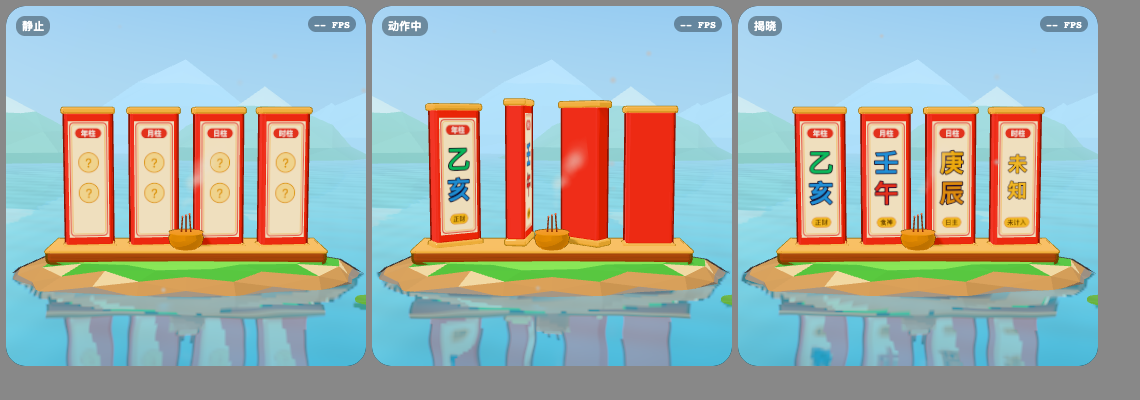
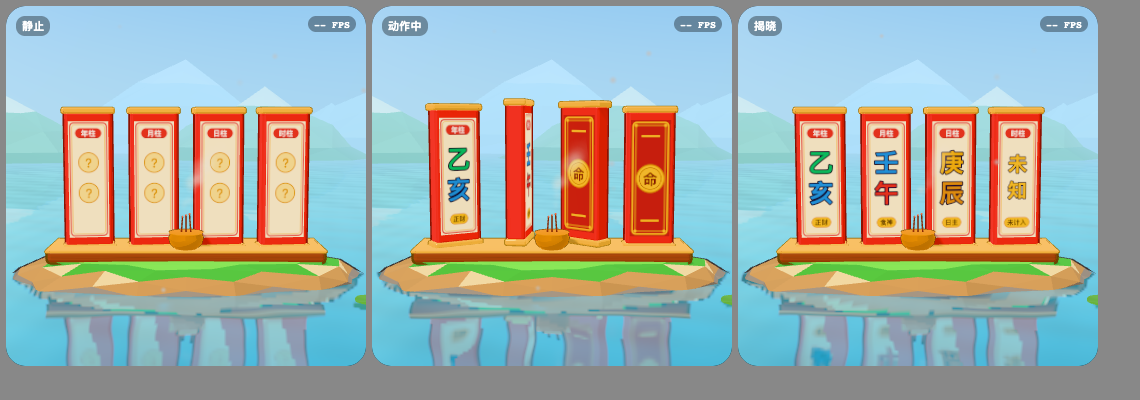
命牌加卡背，灵摆相机给过冲留余量
- 八字命牌背面从素红空板改为卡牌背面：深朱底、金色双线框、中间金色圆章「命」字
- 灵摆过冲拉长时曲臂顶出画面上沿，相机拉远并抬高目标
- 新增 tests/stage-frame.test.mjs 检查过冲构图与卡背
- 动作弹性复查截图与 iPhone 截图，更新 TODO、run-log、visual-direction

Claude-Session: https://claude.ai/code/session_01UrVAbtyfYEWTqFmHaQFqJW

Changed region(s): [[0.5526, 0.3, 0.614, 0.6], [0.4912, 0.27, 0.5219, 0.6]]

diff --git a/src/ui/stage/scenes/pillars.js b/src/ui/stage/scenes/pillars.js
@@ -46,6 +46,27 @@ export function drawTablet(c, w, h, entry, i, unknownHour) {
   }
 }
 
+// 第 23 轮：命牌背面。排盘开始时四块牌先背对镜头再依次翻过来，原来背面是一整块素红，翻转中像四块空板。
+// 改为卡牌背面：深朱底、金色双线框、四角金点、中间金色圆章上一个朱红「命」字，像手游卡牌的卡背。
+export const TABLET_BACK = { base: '#c8302a', gold: '#ffc93c', goldDark: '#d8901e', ink: '#8a1c16' };
+export function drawTabletBack(c, w, h) {
+  const B = TABLET_BACK;
+  c.clearRect(0, 0, w, h);
+  c.fillStyle = B.base; c.fillRect(0, 0, w, h);
+  c.lineJoin = 'round';
+  roundRect(c, 18, 18, w - 36, h - 36, 26); c.lineWidth = 10; c.strokeStyle = B.gold; c.stroke();
+  roundRect(c, 40, 40, w - 80, h - 80, 16); c.lineWidth = 4; c.strokeStyle = B.gold; c.stroke();
+  for (const [x, y] of [[40, 40], [w - 40, 40], [40, h - 40], [w - 40, h - 40]]) { c.beginPath(); c.arc(x, y, 12, 0, Math.PI * 2); c.fillStyle = B.gold; c.fill(); }
+  // 上下各一道金色云纹短线，和正面的标签条、十神胶囊位置对应
+  for (const y of [120, h - 120]) { roundRect(c, w / 2 - 70, y - 7, 140, 14, 7); c.fillStyle = B.gold; c.fill(); }
+  const cy = h / 2;
+  c.beginPath(); c.arc(w / 2, cy, 104, 0, Math.PI * 2); c.fillStyle = B.gold; c.fill();
+  c.lineWidth = 8; c.strokeStyle = B.goldDark; c.stroke();
+  c.beginPath(); c.arc(w / 2, cy, 82, 0, Math.PI * 2); c.lineWidth = 4; c.strokeStyle = B.ink; c.stroke();
+  c.textAlign = 'center'; c.textBaseline = 'middle'; c.font = `900 112px ${FONT}`;
+  c.fillStyle = B.ink; c.fillText('命', w / 2, cy + 6);
+}
+
 export default {
   camera: { position: [0, .55, 7.5], target: [0, -.2, 0], fov: 30 },
   fog: [9, 26],
@@ -60,12 +81,14 @@ export default {
     const tabletGeo = new RoundedBoxGeometry(.52, 1.5, .2, 4, .04);
     const capGeo = new RoundedBoxGeometry(.58, .07, .24, 3, .025);
     const tabMat = MAT.lacquer('#e8463c'); // 朱漆牌身，牌面四周露出一圈红边
+    const backMat = new THREE.MeshStandardMaterial({ map: canvasTexture(TABLET_TEX[0], TABLET_TEX[1], (c, w, h) => drawTabletBack(c, w, h)), roughness: .8 }); // 四块共用
     const tablets = [0, 1, 2, 3].map((i) => {
       const g = new THREE.Group(); world.add(g);
       g.add(new THREE.Mesh(tabletGeo, tabMat));
       const top = new THREE.Mesh(capGeo, gold); top.position.y = .76; const bot = new THREE.Mesh(capGeo, gold); bot.position.y = -.76; g.add(top, bot);
       const tex = canvasTexture(TABLET_TEX[0], TABLET_TEX[1], (c, w, h) => drawTablet(c, w, h, null, i, false));
       const face = new THREE.Mesh(new THREE.PlaneGeometry(.44, 1.29), new THREE.MeshStandardMaterial({ map: tex, roughness: .8 })); face.position.z = .102; g.add(face);
+      const back = new THREE.Mesh(new THREE.PlaneGeometry(.44, 1.29), backMat); back.position.z = -.102; back.rotation.y = Math.PI; g.add(back);
       api.shadows(g, true, true);
       return { g, tex };
     });

diff --git a/src/ui/stage/scenes/pendulum.js b/src/ui/stage/scenes/pendulum.js
@@ -25,7 +25,9 @@ function drawBoard(c, w, highlight = null, glowOnly = false) {
 }
 
 export default {
-  camera: { position: [0, 2.3, 6.1], target: [0, -.35, 0], fov: 32 },
+  // 第 23 轮：原来 [0, 2.3, 6.1] 看向 -.35，静止时曲臂顶端离画面上沿只剩约 1.4°，过冲拉长时顶出画面。
+  // 拉远一点并抬高目标，过冲时仍留约 2° 的余量，石台前沿离下沿约 3°（tests/stage-frame.test.mjs）
+  camera: { position: [0, 2.3, 6.4], target: [0, -.15, 0], fov: 32 },
   fog: [9, 26],
   pivot: -.94, // 动作弹性的不动点：石台顶面
   bounce: .6, // 支架高，满幅拉长会顶出画面

diff --git a/docs/claude-plan/visual-direction.md b/docs/claude-plan/visual-direction.md
@@ -23,14 +23,14 @@
 | 阴影 | 保留主光投影，阴影颜色偏冷紫（地光 #6a7bd6），PCF 软阴影半径 3，不再整体压暗 |
 | 石台（水中小岛） | 第 17 轮起用 `toonRock`：二十面体细分 3 级、起伏 0.2、平面着色出切面，每个面一种颜色。顶面亮草地 #86dc5c、外圈草边 #5cbf4c，侧面上段沙岩 #f2dcab、下段 #cf9f66，水线以下向 #6f9fb8 混 45% 再压暗 15%，切面明度随机 ±4.5%。不要写实石纹和青苔噪点 |
 | 远山 | 第 18 轮起用 `toonMountain`：8 边圆锥 4 段、噪声歪斜，每座主峰加一个 0.62 倍肩峰，平面着色。两排共 6 座：后排天蓝 #9fd2e8、山脚 #86bfdc、峰帽 #f4fbff，前排薄荷 #86c9b4、山脚 #6bb39f、峰帽 #eefaf4，峰帽在高度 0.7 以上，山脚在 0.22 以下，切面明度 ±5%。深色皮肤乘夜色 #6a64b4。雾负责远近层次，不另加描边 |
-| 命牌（八字） | 第 21 轮：牌身朱漆 #e8463c、上下金帽，牌面贴图 300×880 与 0.44 × 1.29 牌面同比例。牌面奶油底 #fff6df，内框朱红 10px 粗边加一道金线，顶部红色胶囊标签白字，干支 186px 黑重字带深墨 #2b2240 描边（字号 10%），五行色 木 #22c46c、火 #e8463c、土 #e0942a、金 #f2b318、水 #3a9cf0，十神写在金色胶囊里。未排盘时是两枚金色「?」圆章，不再是一个小点 |
+| 命牌（八字） | 第 21 轮：牌身朱漆 #e8463c、上下金帽，牌面贴图 300×880 与 0.44 × 1.29 牌面同比例。牌面奶油底 #fff6df，内框朱红 10px 粗边加一道金线，顶部红色胶囊标签白字，干支 186px 黑重字带深墨 #2b2240 描边（字号 10%），五行色 木 #22c46c、火 #e8463c、土 #e0942a、金 #f2b318、水 #3a9cf0，十神写在金色胶囊里。未排盘时是两枚金色「?」圆章，不再是一个小点。第 23 轮加卡背：深朱底 #c8302a、金色 #ffc93c 双线框与四角金点、中间金色圆章上朱红 #8a1c16「命」字，排盘开始翻转时不再是四块素红板 |
 | 水晶球底座 | 第 21 轮：哑光紫 #8a5cf0（不用漆面，弧形底座上硬高光会连成亮带），4 只托爪金色、粗 0.075 收到 0.035，不加树皮起伏 |
 | 木纹 | 第 22 轮起 `woodTexture` 改为卡通粗纹（`WOOD_TOON`）：256 贴图纯色底，3 道波浪深纹宽 14–22px、深棕 rgba(70,32,10,.2)，每道上方一道细亮边 rgba(255,236,206,.22)，正弦在贴图宽度内整周期以便横向平铺，至多 1 个实心节疤。不再画细年轮。罗盘托盘、八字木台、树干、扶手、同心结树枝共用。灵摆木盘上覆半透明盘面，改用纯色 #e6b984 不贴木纹 |
 | 灵摆宝石 | 第 21 轮：不透明饱和紫 #9b6bff，8 边平面着色切面，整体放大 1.4 倍，不用透射玻璃（小屏上会淡到看不见） |
 | 天空与雾 | 浅色皮肤：天顶 #5ab8ff、地平线 #b4e3ff、水面 #4cc3d9 / 深水 #2789b8，雾距为场景原值 × 1.6（约 14–43 米）。深色皮肤：天顶 #1b1446、地平线 #4a3a8c，星点保留 |
 | 光照 | 半球光 天空 #e8f6ff / 地面 #ffd9a0，强度 1.05。主光暖白 #fff1d6 强度 1.5（三段明暗的亮段覆盖面大，主光再强会让朝光面过曝发白），位置 (−3.2, 5.6, 4.4)。轮廓光 #cfe0ff 0.6 |
 | 色调映射 | 保留 Neutral，曝光 1.05（浅色）/ 1.1（深色） |
-| 动效 | 所有触发动作带「预备 → 冲 → 过冲 → 回弹」：预备压扁 8%、过冲 12%、回弹阻尼 0.35。揭晓时器物放大 1.08 再回到 1，同时一圈金星粒子 |
+| 动效 | 所有触发动作带「预备 → 冲 → 过冲 → 回弹」：预备压扁 8%、过冲 12%、回弹阻尼 0.35。揭晓时器物放大 1.08 再回到 1，同时一圈金星粒子。构图要给过冲留余量：过冲时器物最高点在正方形舞台里 ndc.y < 0.9（灵摆第 23 轮调相机，`tests/stage-frame.test.mjs` 检查） |
 | 帧率显示 | 默认关闭，设置里可打开 |
 
 验收方法：`node scripts/iphone-shots.mjs` 截 393×852 与 430×932，器物必须有清晰描边、三段明暗、无大面积灰雾，深浅皮肤都看得出形状。

diff --git a/docs/claude-plan/TODO.md b/docs/claude-plan/TODO.md
@@ -86,5 +86,7 @@ P0 上架必需 · P1 影响付费转化 · P2 体验打磨。完成后打勾并
 - [x] **水晶球底座的塑料感** ✅ 2026-10-24（第 21 轮，底座从青铜（卡通化后成了发亮的橙色）改为哑光紫 #8a5cf0，和球里的紫色星雾呼应，4 只托爪改为金色并加粗到 0.075、去掉树皮起伏。gallery:3d 浅深两套过目，玻璃球仍通透）（P2，第 21 轮发现）：橙色底座上有一大块连续的亮高光，托爪是暗褐色细条，和其他卡通器物比最像塑料玩具。完成标准：底座改为金色或朱漆分段明暗、托爪加粗提亮，gallery:3d 浅深两套过目，玻璃球保持通透。
 - [x] **按新水晶球底座重拍商店截图** ✅ 2026-10-24（第 21 轮，整套 139 秒，12 张尺寸核对 1290×2796 与 1242×2688，灵签上吉签，塔罗「星币王牌 · 正位」，第 6 张水晶球是新的紫色底座金托爪）（P1，第 21 轮发现）：商店图第 6 张是水晶球，底座还是旧的橙色。完成标准：`node scripts/store-shots.mjs` 重跑，12 张逐张过目，塔罗仍是积极正位牌。
 - [x] **灵摆木盘的写实木纹** ✅ 2026-10-24（第 22 轮，`woodTexture` 改为卡通粗纹：纯色底 + 3 道 14 到 22px 的波浪深纹，各配一道细亮边，至多 1 个实心节疤，横向整周期可平铺，参数 `WOOD_TOON`。罗盘托盘、八字木台、财运树干、青云梯扶手、同心结树枝一起换。灵摆木盘上面盖着半透明盘面，粗纹会透过来像污渍压住「是 / 否」，改为纯色 #e6b984。`tests/toon-wood.test.mjs` 3 项，gallery:3d 浅深两套 22 张过目）（P2，第 21 轮发现）：木盘与罗盘托盘仍用写实木纹贴图，细纹在小屏上像噪点。完成标准：换成 2 到 3 道粗的卡通木纹或纯色分圈，罗盘、灵摆、八字木台三处统一。
-- [ ] **动作弹性复查**（P2，第 22 轮新增）：第 21 到 22 轮换了命牌、灵摆宝石、水晶球底座和木纹，弹性四张对比图还是第 7 轮拍的。完成标准：`npm run gallery:3d -- --motion` 重拍，命牌翻转、灵摆摆动、水晶球三件的预备与过冲清楚可见，不顶出画面。
+- [x] **动作弹性复查** ✅ 2026-10-25（第 23 轮，`--motion` 重拍命牌、灵摆、水晶球宣纸与玄墨两套。水晶球预备与过冲清楚，未改。灵摆过冲时曲臂顶端顶出上沿（算下来 ndc.y 0.997），相机从 [0, 2.3, 6.1] 看 -.35 改为 [0, 2.3, 6.4] 看 -.15，过冲时降到 0.9 以内，新增 `tests/stage-frame.test.mjs` 检查。命牌翻转时背面是四块素红空板，加卡背（见下一项））（P2，第 22 轮新增）：第 21 到 22 轮换了命牌、灵摆宝石、水晶球底座和木纹，弹性四张对比图还是第 7 轮拍的。完成标准：`npm run gallery:3d -- --motion` 重拍，命牌翻转、灵摆摆动、水晶球三件的预备与过冲清楚可见，不顶出画面。
+- [x] **命牌卡背** ✅ 2026-10-25（第 23 轮动作弹性复查时发现：排盘开始四块牌背对镜头依次翻过来，背面是一整块素红，像空板。加 `drawTabletBack`：深朱底、金色双线框与四角金点、上下金色短线、中间金色圆章上朱红「命」字，四块共用一张贴图。宣纸、玄墨两套 motion 图过目，`tests/stage-frame.test.mjs` 1 项）
+- [ ] **其余 8 件器物的过冲构图检查**（P2，第 23 轮新增）：本轮只给灵摆加了 ndc 检查。完成标准：`tests/stage-frame.test.mjs` 扩到全部 11 件，用各场景最高点过冲后 ndc.y < 0.9，超出的调相机并重拍 gallery。
 - [x] **App 内显示版本号** ✅ 2026-10-22（Peyton 要求，设置页最底部一行「版本 1.0.0 · 第 N 版 · 构建时间 · 提交」，N 是 git 提交数只增不减，`tests/version.test.mjs` 2 项）

diff --git a/docs/claude-plan/run-log.md b/docs/claude-plan/run-log.md
@@ -716,3 +716,31 @@
 - 年龄分级按 13+ 填写、3 个皮肤内购与价格档位、GitHub Pages 合并时机、TestFlight 是否每轮自动上传，同前几轮。
 
 推送结果：提交 9cdb99e 推送成功。
+
+
+## 第 23 轮 · 2026-10-25 01:55 UTC 起（PDT 10-24 18:55，定时任务）
+
+开始状态：工作区干净，与远端一致，.lock 为 idle。remote-devices 没有连接文件夹，所有命令通过 Desktop Commander 在 Mac 上执行。
+
+完成的待办：
+- ✅ P2 动作弹性复查：`stage-gallery.mjs --motion` 重拍命牌、灵摆、水晶球宣纸与玄墨两套。水晶球预备压扁与过冲拉长清楚，没有顶出，未改。灵摆过冲时曲臂顶端顶出画面上沿（投影算下来 ndc.y 0.997），相机从 [0, 2.3, 6.1] 看 -.35 改为 [0, 2.3, 6.4] 看 -.15，过冲时留出约 2° 余量，石台前沿离下沿约 3°。新增 `tests/stage-frame.test.mjs` 按正方形舞台检查过冲后的 ndc，改前的相机会让这项失败。
+- ✅ P2 命牌卡背（复查时发现）：排盘开始时四块牌先背对镜头再依次翻过来，背面原来是一整块素红，像四块空板。新增 `drawTabletBack`：深朱底 #c8302a、金色双线框与四角金点、上下两道金色短线、中间金色圆章上朱红「命」字，四块共用一张贴图。参数写进 visual-direction.md 第 2 节「命牌」，动效一行补上构图余量要求。
+
+检查结果：
+- `npm run build` 通过，`npm test` 407 项全部通过（新增 2 项）。
+- `tests/e2e/stage.e2e.mjs` 8 项全部通过（发光登记、八字命牌翻转、深色皮肤、WebGL 退回 2D 都在内）。本轮只改了两个场景，没有跑全套 35 项 e2e。
+- gallery：命牌、灵摆、水晶球 motion 宣纸玄墨共 6 张，命牌、灵摆静态宣纸玄墨 4 张，逐张过目。卡背在夜色里金框清楚，翻转中能看出是「牌」而不是空板。灵摆过冲那一格曲臂顶端完整在画面内。
+- iPhone 截图（docs/claude-plan/screenshots/，已用 git rm 删掉上一轮 12 张）：八字、水晶球 393×852 与 430×932 共 4 张，另附 gallery 7 张。report.json 无横向溢出、无报错，文字无截断。
+
+遗留问题：
+- 其余 8 件器物还没有过冲构图检查，已加 P2。
+- 财运滚动白带（P2）仍需真机录屏确认。
+- 付费卡在模拟器上看本地化价格：本轮评估了用 UI 测试目标自动截图，需要往工程里新加测试目标并在方案里挂 StoreKit 配置，改动面大，留到专门一轮做。
+
+下一轮计划：P2 把 `stage-frame.test.mjs` 扩到全部 11 件，超出的调相机并重拍 gallery。然后考虑加一个 Xcode UI 测试目标，自动截付费卡本地化价格图。
+
+待 Peyton 决定：
+- 新的命牌卡背装到 iPhone 上看一眼（八字页点「排盘」时能看到翻转）。
+- 小组件与断签提醒的真机验证（跑一次 `bash scripts/ios-try.sh`），签名报错多半是开发者账号要确认新的 `.widget` App ID。
+- 在 Xcode 里选 App 方案点一次运行，看付费卡与皮肤单买卡的本地化价格。
+- 年龄分级按 13+ 填写、3 个皮肤内购与价格档位、GitHub Pages 合并时机、TestFlight 是否每轮自动上传，同前几轮。
